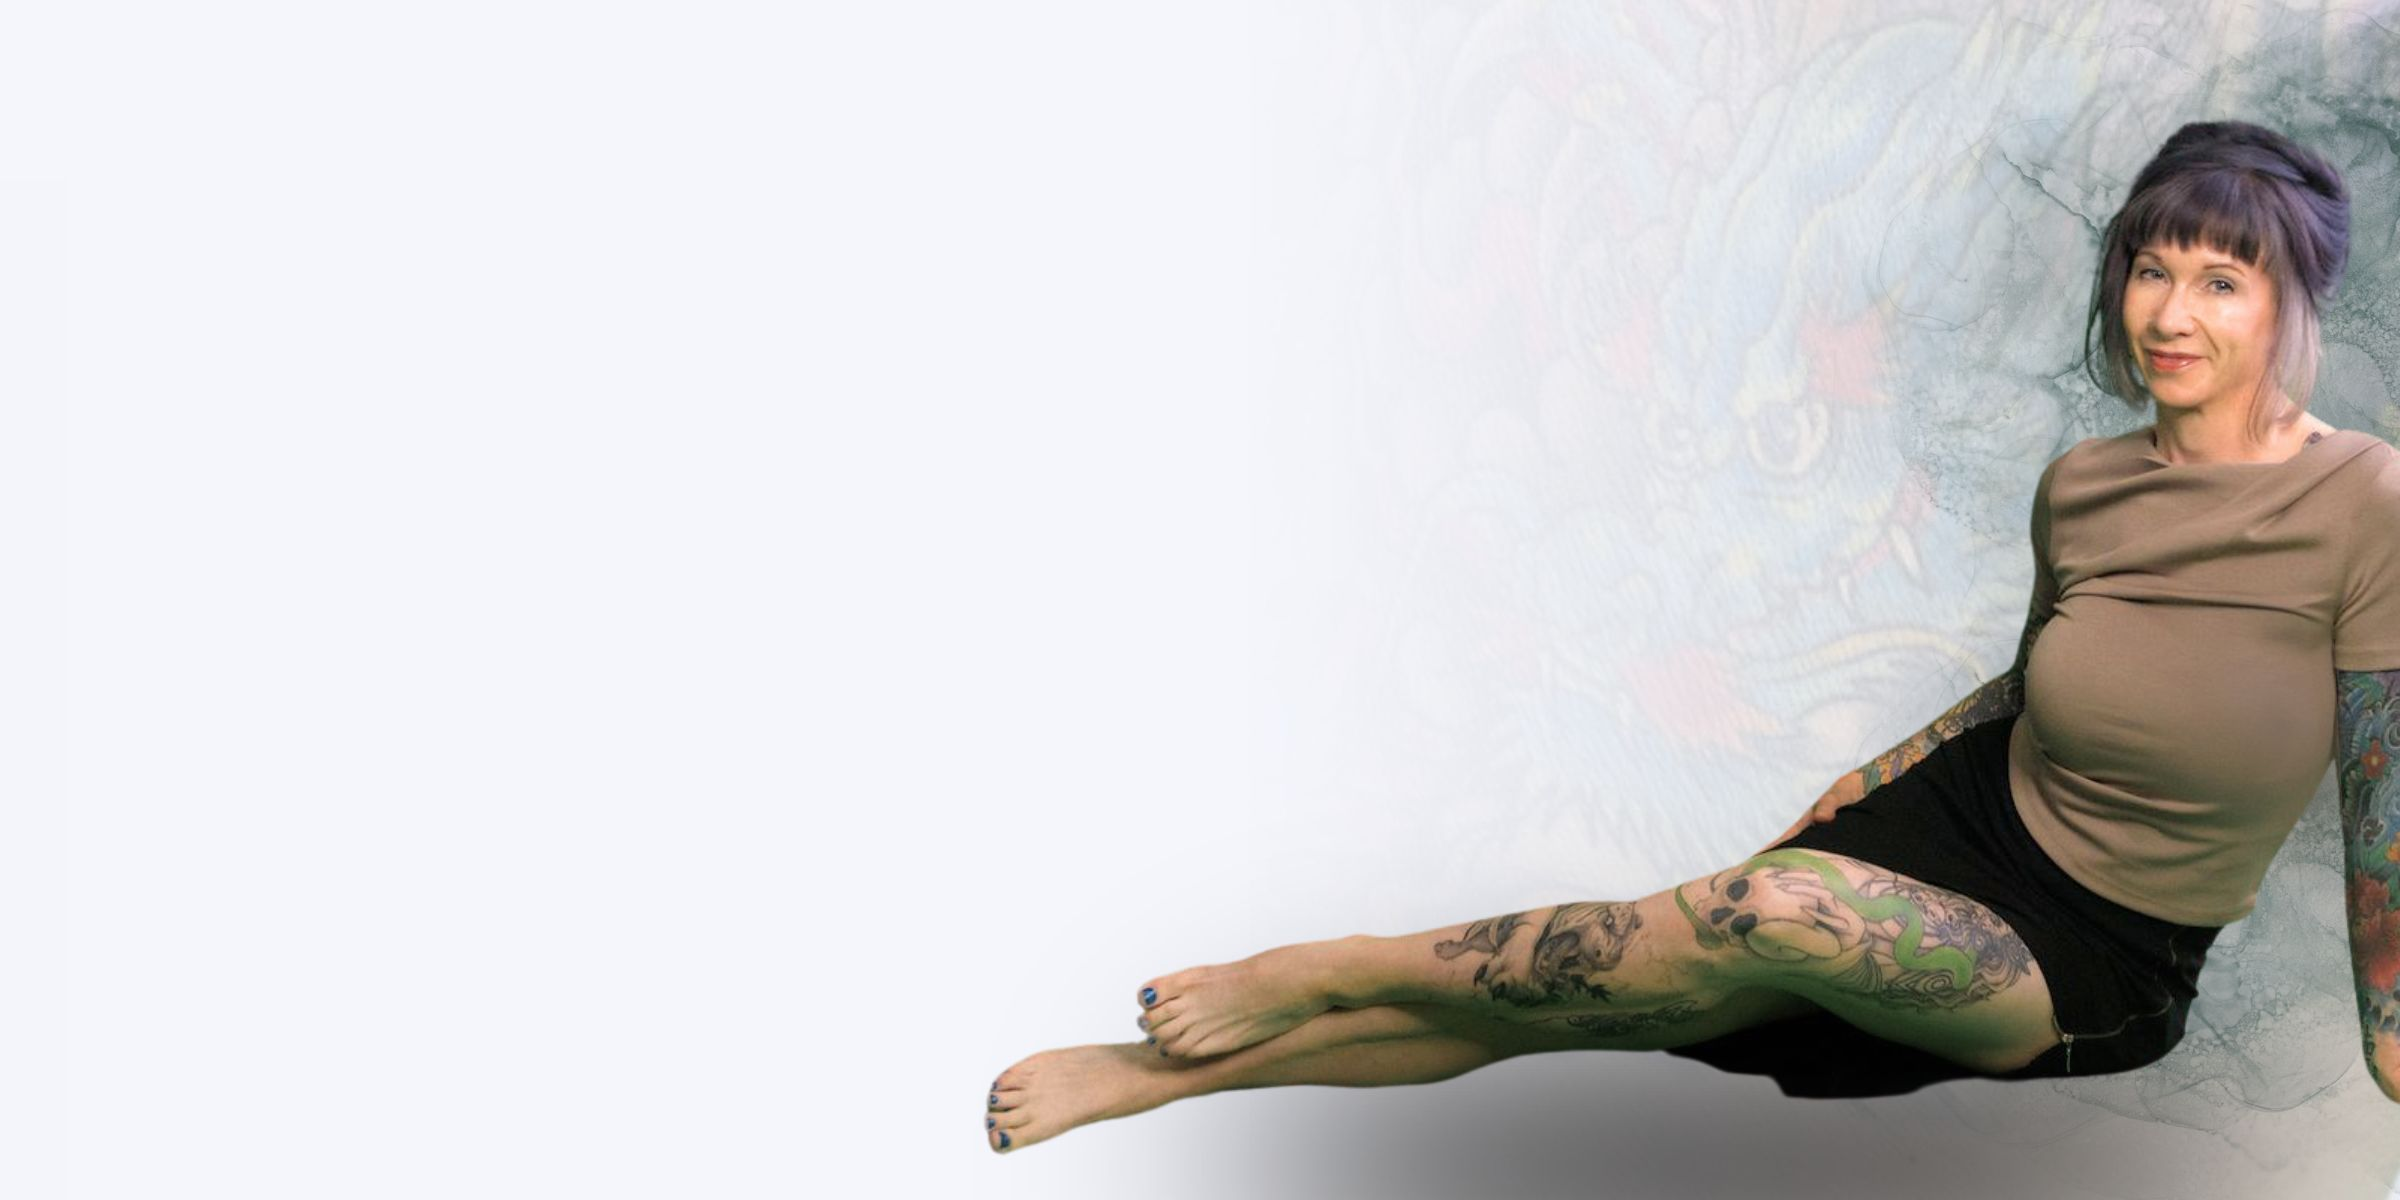
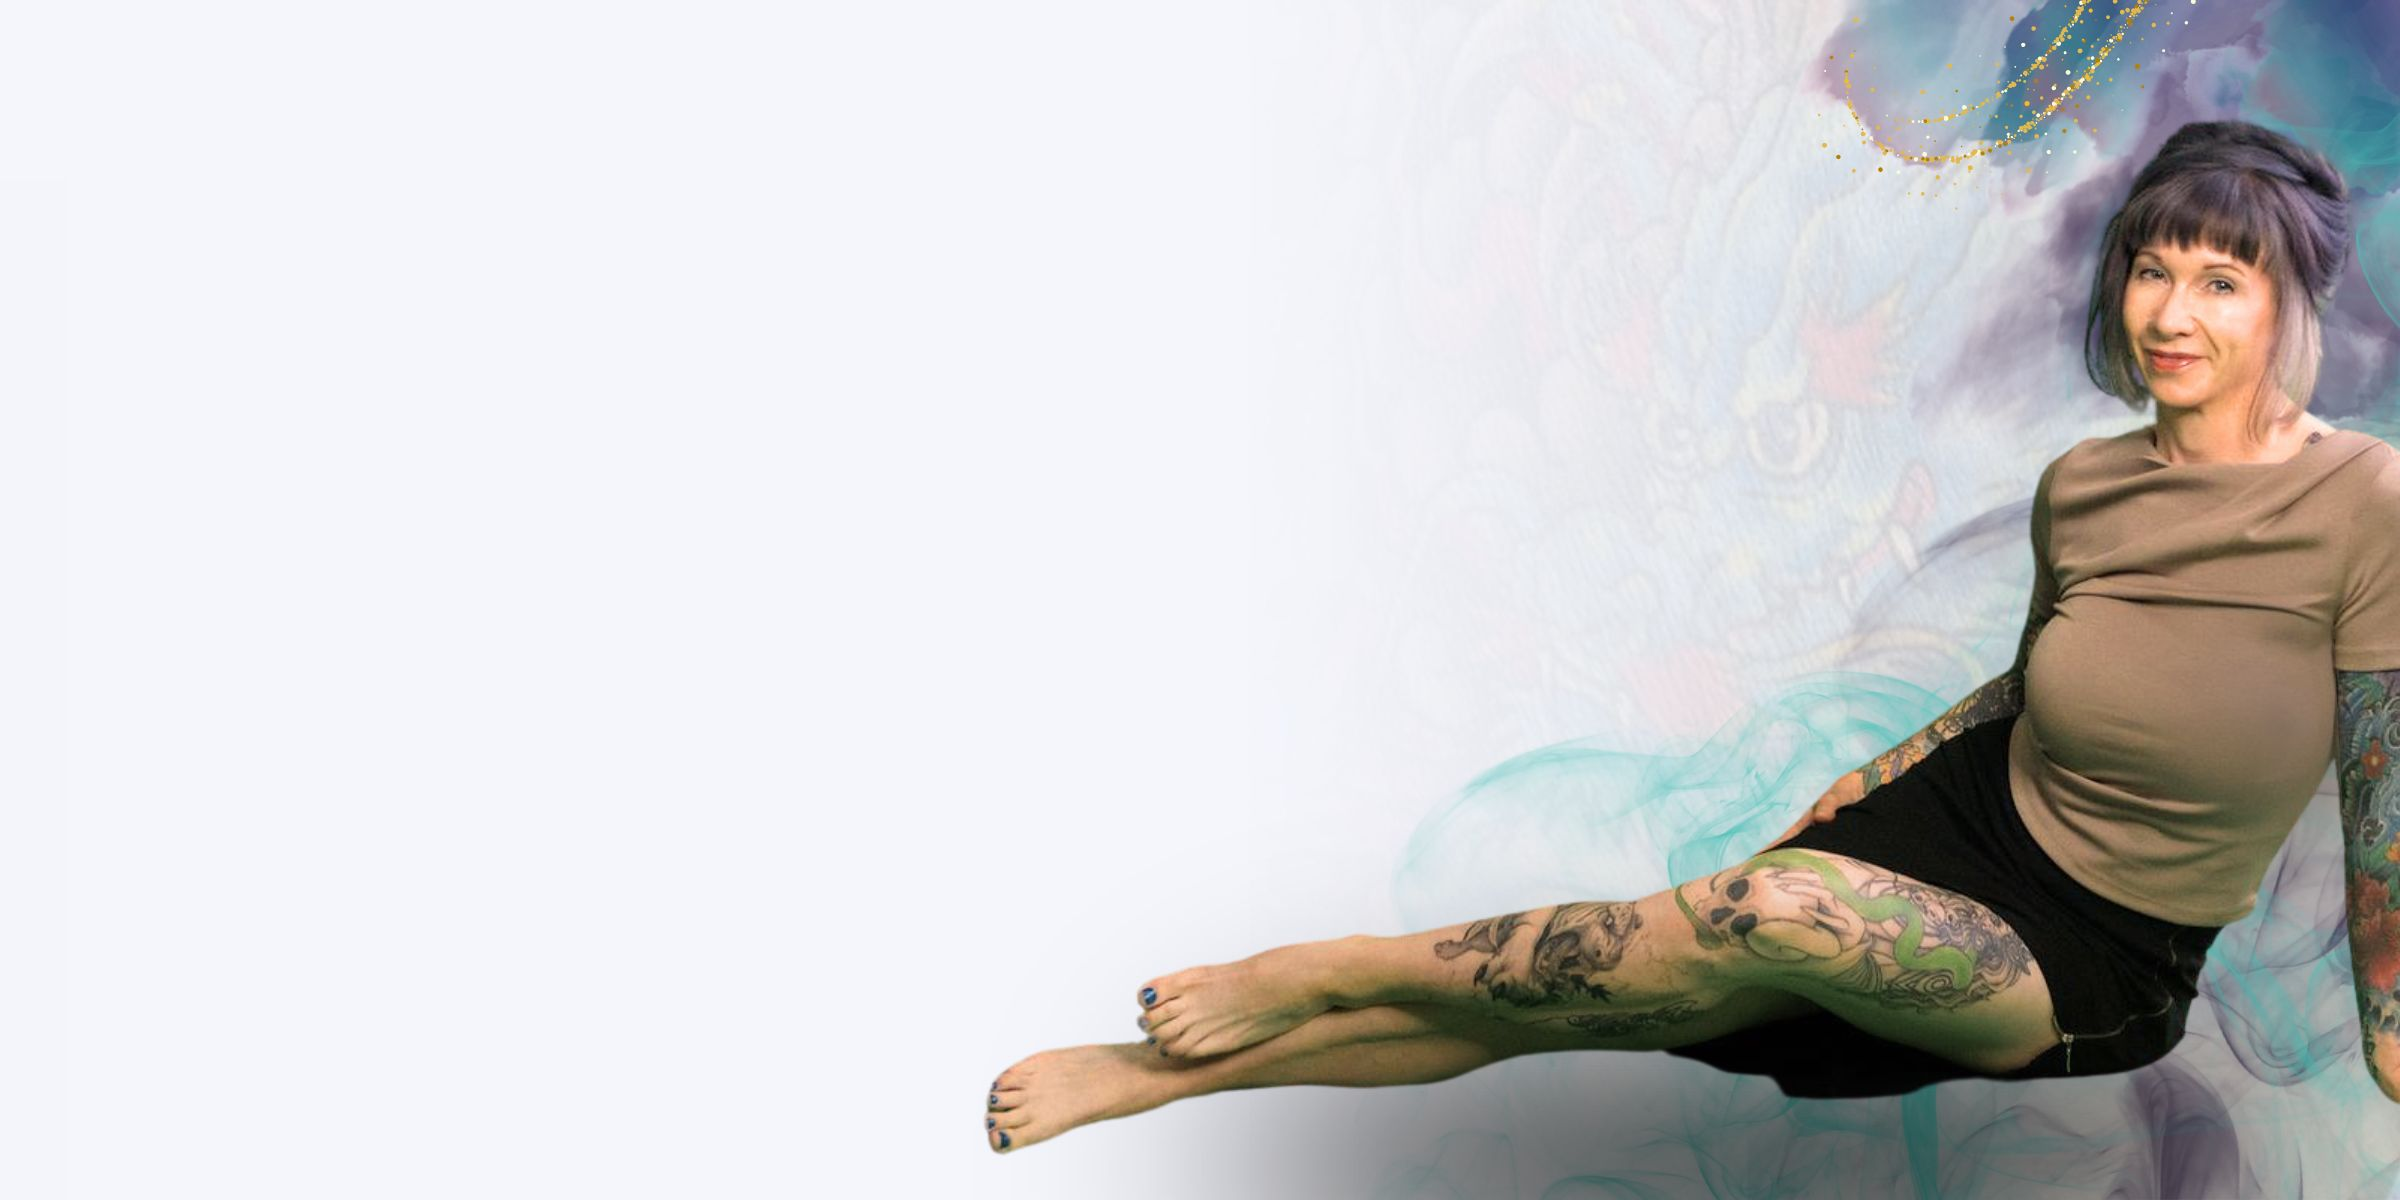
Update Journal landing page hero image

Changed region(s): [[0.75, 0.0, 1.0, 0.4625], [0.6562, 0.6475, 1.0, 1.0], [0.5938, 0.555, 0.8125, 0.74]]

diff --git a/src/styles/global.css b/src/styles/global.css
@@ -752,7 +752,7 @@ main {
   align-items: center;
   padding: 2.5rem var(--page-gutter);
   background-color: var(--paper);
-  background-image: url("/assets/journal-page-hero.jpg?v=kali-hero-1");
+  background-image: url("/assets/journal-page-hero.jpg?v=kali-hero-2");
   background-position: center 24%;
   background-size: cover;
 }
